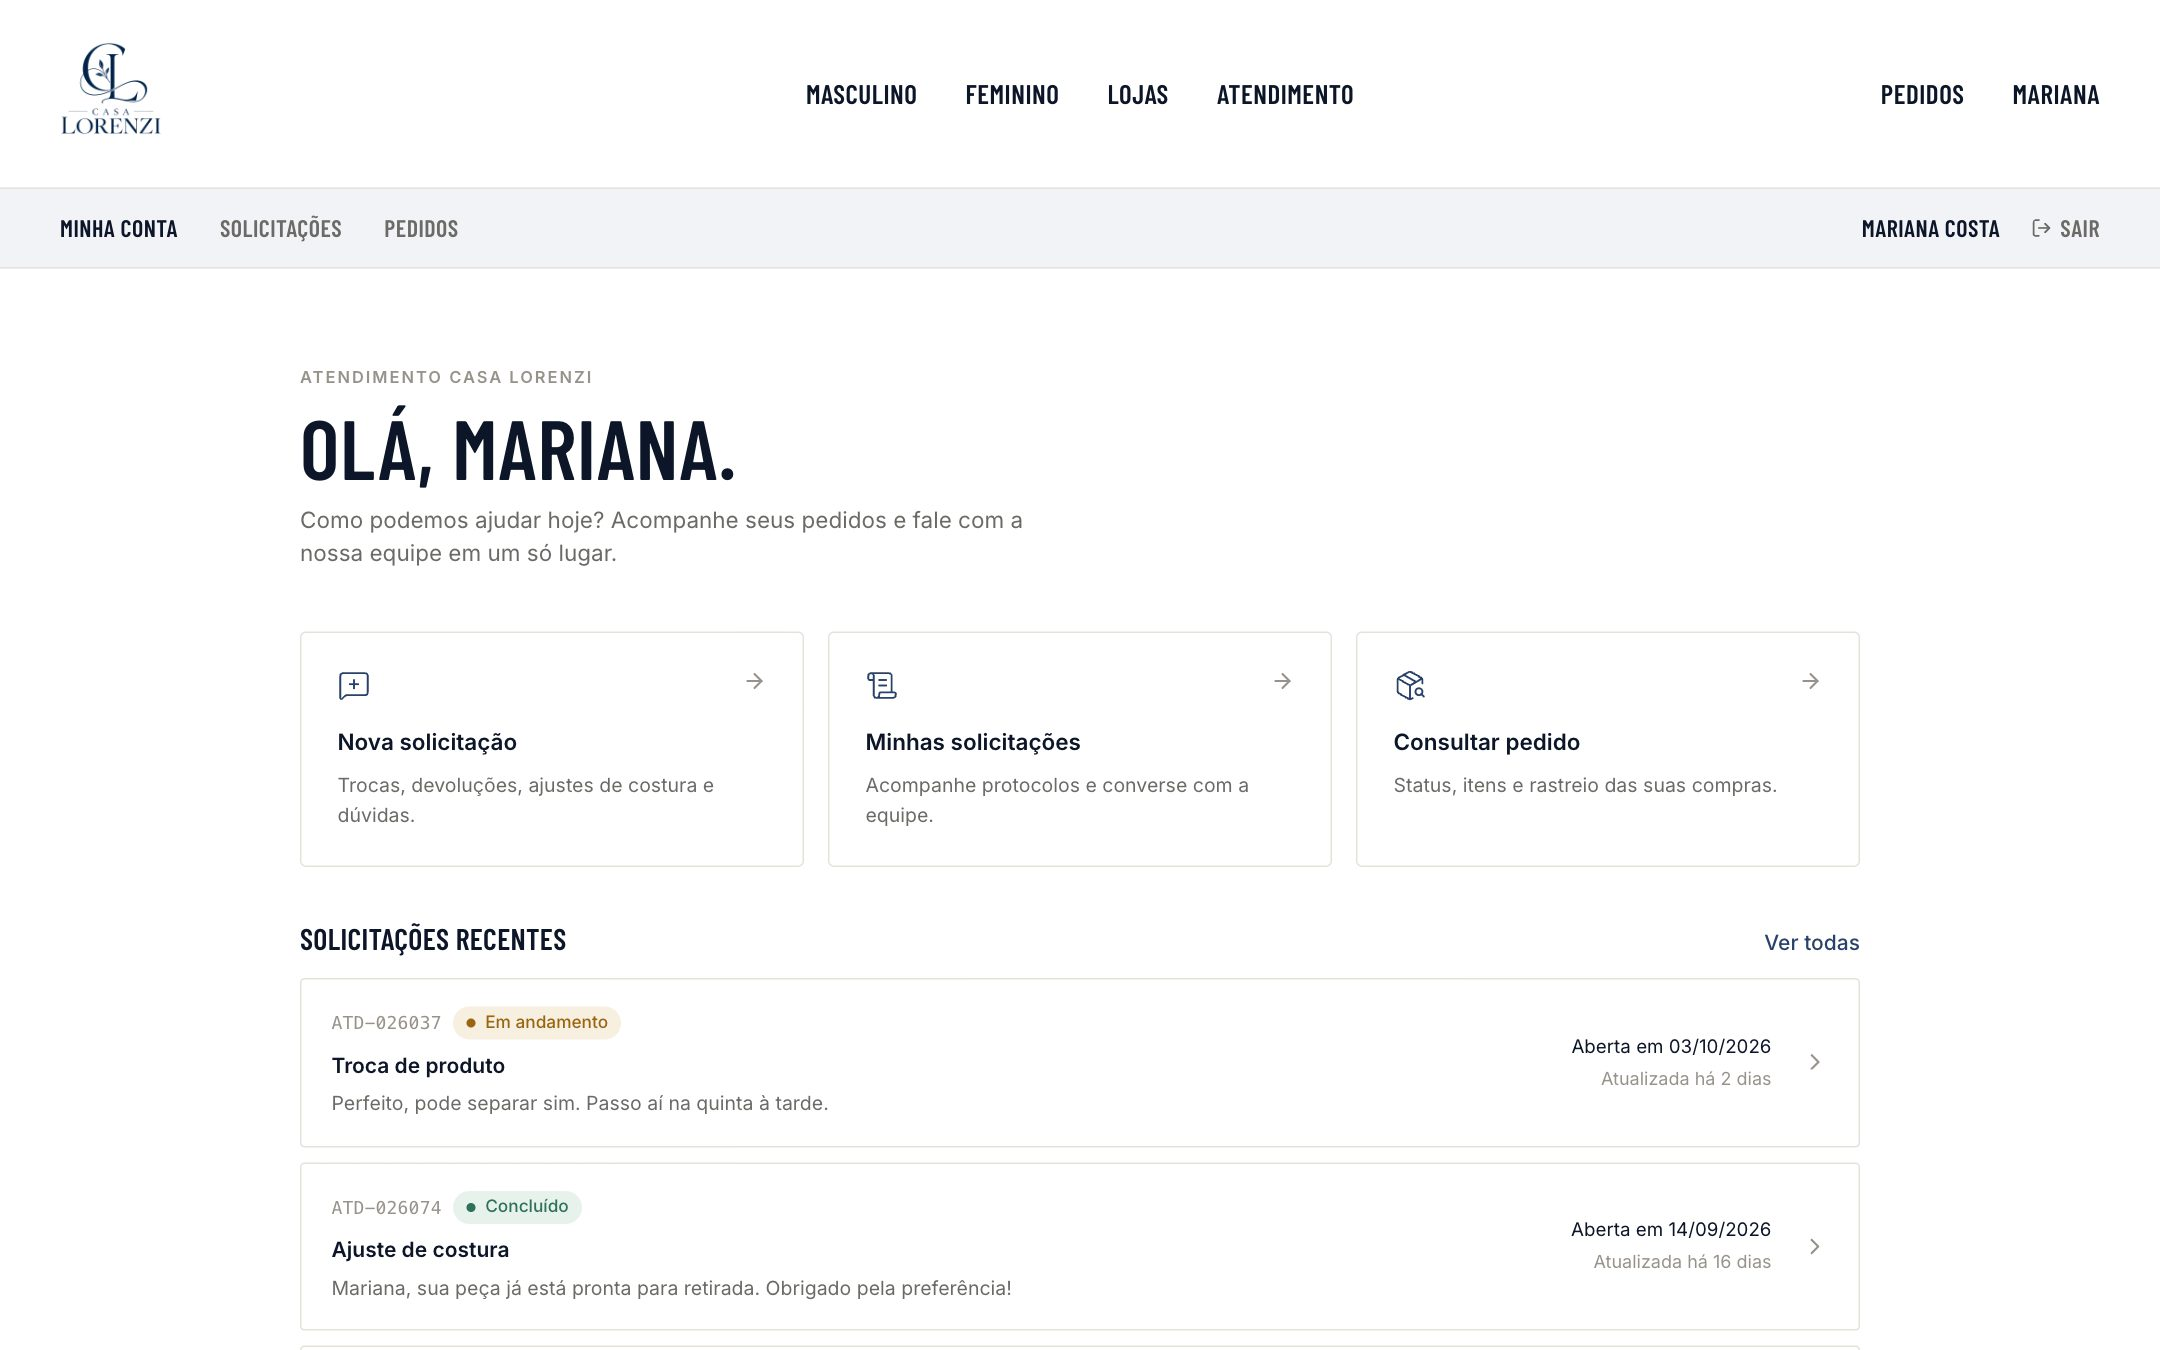
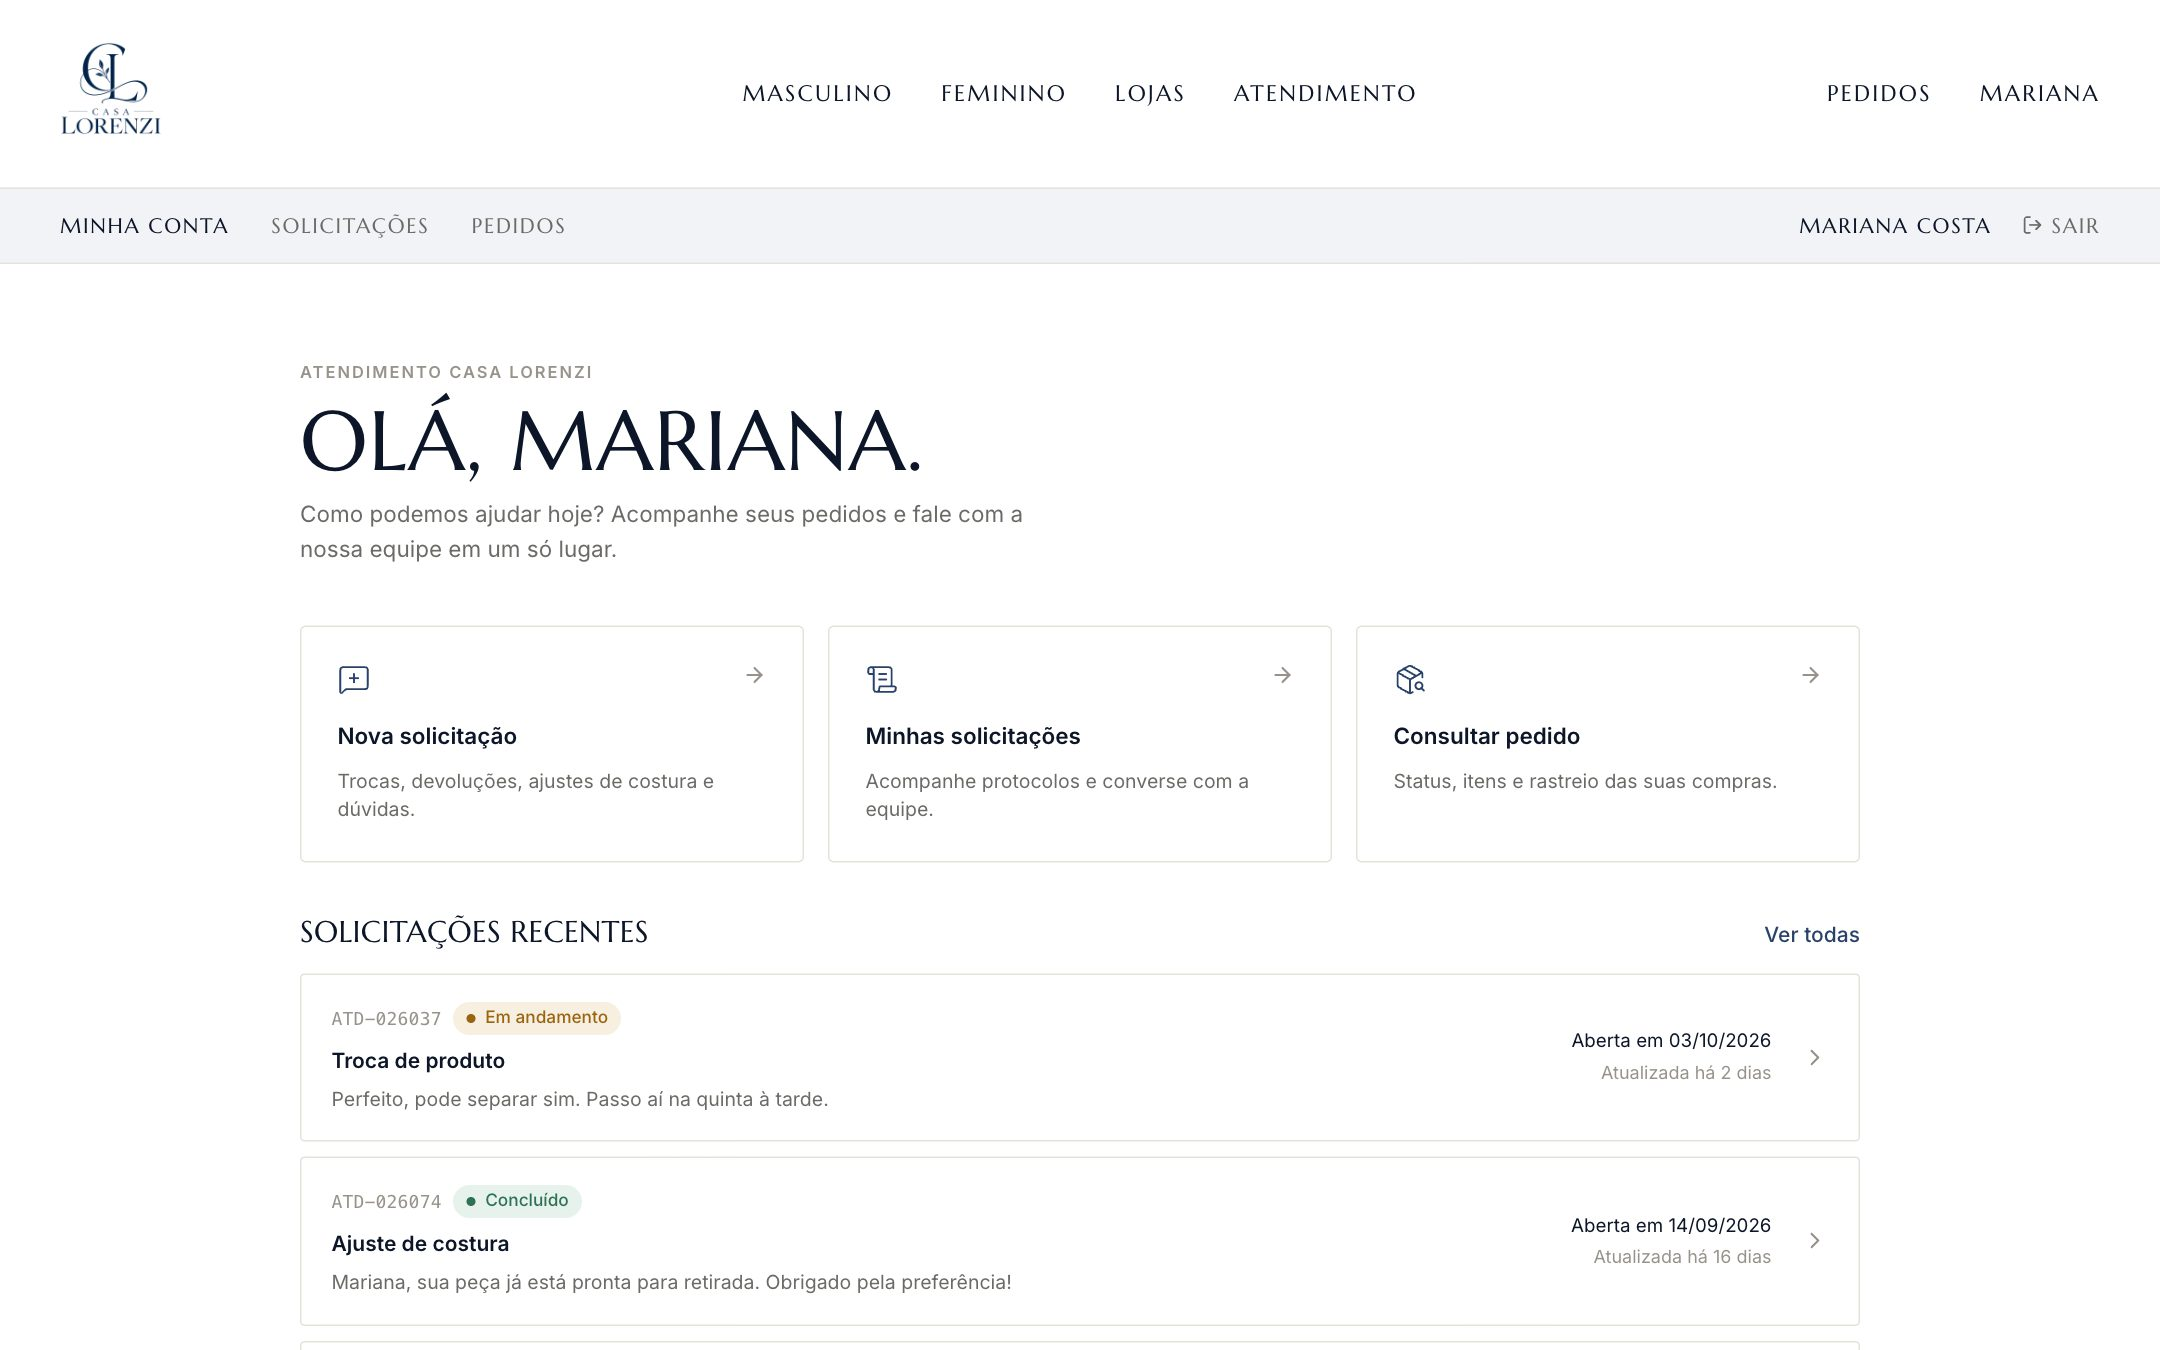
Troca a fonte de títulos e menus pela Marcellus
- Marcellus no lugar da Barlow Condensed em loja, login, área do
  cliente e painel; textos corridos continuam em Inter
- Peso regular (fonte de peso único), sem negrito artificial
- Tamanhos e espaçamento entre letras ajustados para a nova fonte
- Título da coleção cabe em uma linha no celular
- Prévias do login recapturadas

diff --git a/src/styles/store.css b/src/styles/store.css
@@ -24,9 +24,9 @@
   gap: 24px;
   padding: 28px var(--store-gutter);
   font-family: var(--store-font);
-  font-size: 18px;
-  font-weight: 600;
-  letter-spacing: 0.02em;
+  font-size: 15px;
+  font-weight: 400;
+  letter-spacing: 0.1em;
   text-transform: uppercase;
 }
 
@@ -122,9 +122,9 @@
   bottom: 40px;
   z-index: 1;
   font-family: var(--store-font);
-  font-size: 20px;
-  font-weight: 600;
-  letter-spacing: 0.02em;
+  font-size: 16px;
+  font-weight: 400;
+  letter-spacing: 0.1em;
   text-transform: uppercase;
 }
 
@@ -161,8 +161,8 @@
 .store-heading {
   font-family: var(--store-font);
   font-size: 28px;
-  font-weight: 600;
-  letter-spacing: 0.01em;
+  font-weight: 400;
+  letter-spacing: 0.04em;
   line-height: 1;
   text-transform: uppercase;
 }
@@ -177,9 +177,10 @@
 
 .store-heading-link {
   font-family: var(--store-font);
-  font-size: 17px;
-  font-weight: 600;
+  font-size: 14px;
+  font-weight: 400;
   text-transform: uppercase;
+  letter-spacing: 0.1em;
 }
 
 .store-heading-link:hover {
@@ -194,9 +195,10 @@
   background: var(--navy-900);
   color: #fff;
   font-family: var(--store-font);
-  font-size: 18px;
-  font-weight: 600;
+  font-size: 14px;
+  font-weight: 400;
   text-transform: uppercase;
+  letter-spacing: 0.1em;
 }
 
 .store-filters {
@@ -211,10 +213,11 @@
   border: 0;
   background: none;
   font-family: var(--store-font);
-  font-size: 17px;
-  font-weight: 500;
+  font-size: 14px;
+  font-weight: 400;
   text-transform: uppercase;
   color: var(--text-subtle);
+  letter-spacing: 0.08em;
 }
 
 .store-filters button:hover,
@@ -264,9 +267,9 @@
 
 .product-card h3 {
   font-family: var(--store-font);
-  font-size: 18px;
-  font-weight: 600;
-  letter-spacing: 0.01em;
+  font-size: 15px;
+  font-weight: 400;
+  letter-spacing: 0.06em;
   text-transform: uppercase;
 }
 
@@ -297,13 +300,15 @@
 }
 
 .store-list strong {
-  font-size: 24px;
+  font-size: 22px;
   font-weight: 600;
+  letter-spacing: 0.04em;
 }
 
 .store-list span {
-  font-size: 18px;
+  font-size: 15px;
   color: var(--text-muted);
+  letter-spacing: 0.06em;
 }
 
 /* Rodapé: faixa azul-marinho */
@@ -332,8 +337,9 @@
   flex-wrap: wrap;
   justify-content: flex-end;
   gap: 12px 32px;
-  font-size: 17px;
+  font-size: 14px;
   font-weight: 600;
+  letter-spacing: 0.1em;
 }
 
 .store-footer__bottom {
@@ -343,8 +349,9 @@
   gap: 16px;
   padding-top: 20px;
   border-top: 1px solid rgba(244, 241, 234, 0.14);
-  font-size: 14px;
+  font-size: 12px;
   color: #8d98ad;
+  letter-spacing: 0.08em;
 }
 
 .store-footer a:hover {
@@ -422,7 +429,11 @@
     padding-top: 40px;
   }
   .store-heading--lg {
-    font-size: 34px;
+    font-size: 24px;
+  }
+  .store-section__head {
+    flex-wrap: wrap;
+    margin-bottom: 32px;
   }
   .store-list li {
     flex-direction: column;

diff --git a/src/styles/pages.css b/src/styles/pages.css
@@ -350,7 +350,7 @@ a.ticket-list__item:hover {
   align-items: center;
   gap: 12px;
   font-family: var(--font-display);
-  font-weight: 600;
+  font-weight: 400;
   text-transform: uppercase;
   letter-spacing: 0.01em;
   font-size: 22px;
@@ -608,7 +608,7 @@ a.ticket-list__item:hover {
 
 .client-hero__title {
   font-family: var(--font-display);
-  font-weight: 600;
+  font-weight: 400;
   text-transform: uppercase;
   letter-spacing: 0.01em;
   font-size: 56px;
@@ -624,7 +624,7 @@ a.ticket-list__item:hover {
 
 .client-title {
   font-family: var(--font-display);
-  font-weight: 600;
+  font-weight: 400;
   text-transform: uppercase;
   letter-spacing: 0.01em;
   font-size: 42px;
@@ -650,7 +650,7 @@ a.ticket-list__item:hover {
 .section-heading h2 {
   font-family: var(--font-display);
   font-size: 20px;
-  font-weight: 600;
+  font-weight: 400;
   letter-spacing: 0.01em;
   text-transform: uppercase;
   color: var(--navy-950);

diff --git a/src/styles/login.css b/src/styles/login.css
@@ -43,7 +43,7 @@
 
 .login__title {
   font-family: var(--font-display);
-  font-weight: 600;
+  font-weight: 400;
   text-transform: uppercase;
   letter-spacing: 0.01em;
   font-size: 46px;
@@ -313,11 +313,11 @@
 
 .login-showcase__title {
   font-family: var(--font-display);
-  font-weight: 600;
+  font-weight: 400;
   text-transform: uppercase;
-  letter-spacing: 0.01em;
-  font-size: 36px;
-  line-height: 1.02;
+  letter-spacing: 0.03em;
+  font-size: 30px;
+  line-height: 1.15;
   color: rgba(255, 255, 255, 0.94);
 }
 
@@ -393,7 +393,7 @@
     padding: 72px 64px 0;
   }
   .login-showcase__title {
-    font-size: 42px;
+    font-size: 34px;
   }
   /* Prévia inclinada saindo pela borda inferior, como no componente original */
   .login-showcase__mockup {

diff --git a/src/styles/base.css b/src/styles/base.css
@@ -28,8 +28,8 @@
   --info-bg: #e7edf6;
 
   --font-sans: 'Inter', system-ui, -apple-system, 'Segoe UI', sans-serif;
-  /* Títulos em todo o site: condensada em caixa alta */
-  --font-display: 'Barlow Condensed', 'Arial Narrow', sans-serif;
+  /* Títulos, menus e rótulos em todo o site (fonte de peso único) */
+  --font-display: 'Marcellus', Georgia, 'Times New Roman', serif;
 
   /* Cantos retos, no estilo editorial da loja */
   --radius-sm: 2px;
@@ -61,6 +61,8 @@ body {
   color: var(--text);
   background: var(--bg);
   -webkit-font-smoothing: antialiased;
+  /* A Marcellus só tem peso regular: não deixar o navegador criar um negrito artificial */
+  font-synthesis-weight: none;
   -moz-osx-font-smoothing: grayscale;
 }
 

diff --git a/index.html b/index.html
@@ -8,7 +8,7 @@
     <link rel="preconnect" href="https://fonts.googleapis.com" />
     <link rel="preconnect" href="https://fonts.gstatic.com" crossorigin />
     <link
-      href="https://fonts.googleapis.com/css2?family=Barlow+Condensed:wght@500;600&family=Inter:wght@400;500;600&display=swap"
+      href="https://fonts.googleapis.com/css2?family=Marcellus&family=Inter:wght@400;500;600&display=swap"
       rel="stylesheet"
     />
     <title>Casa Lorenzi</title>

diff --git a/src/styles/components.css b/src/styles/components.css
@@ -94,7 +94,7 @@
 .card__title {
   font-family: var(--font-display);
   font-size: 19px;
-  font-weight: 600;
+  font-weight: 400;
   letter-spacing: 0.01em;
   text-transform: uppercase;
   color: var(--navy-950);
@@ -709,7 +709,7 @@
 
 .page-title {
   font-family: var(--font-display);
-  font-weight: 600;
+  font-weight: 400;
   text-transform: uppercase;
   letter-spacing: 0.01em;
   font-size: 40px;

diff --git a/src/styles/layout.css b/src/styles/layout.css
@@ -234,9 +234,9 @@ button.sidebar__link {
   border-bottom: 1px solid var(--border);
   background: var(--navy-50);
   font-family: var(--font-display);
-  font-size: 16px;
-  font-weight: 600;
-  letter-spacing: 0.02em;
+  font-size: 14px;
+  font-weight: 400;
+  letter-spacing: 0.08em;
   text-transform: uppercase;
 }
 
